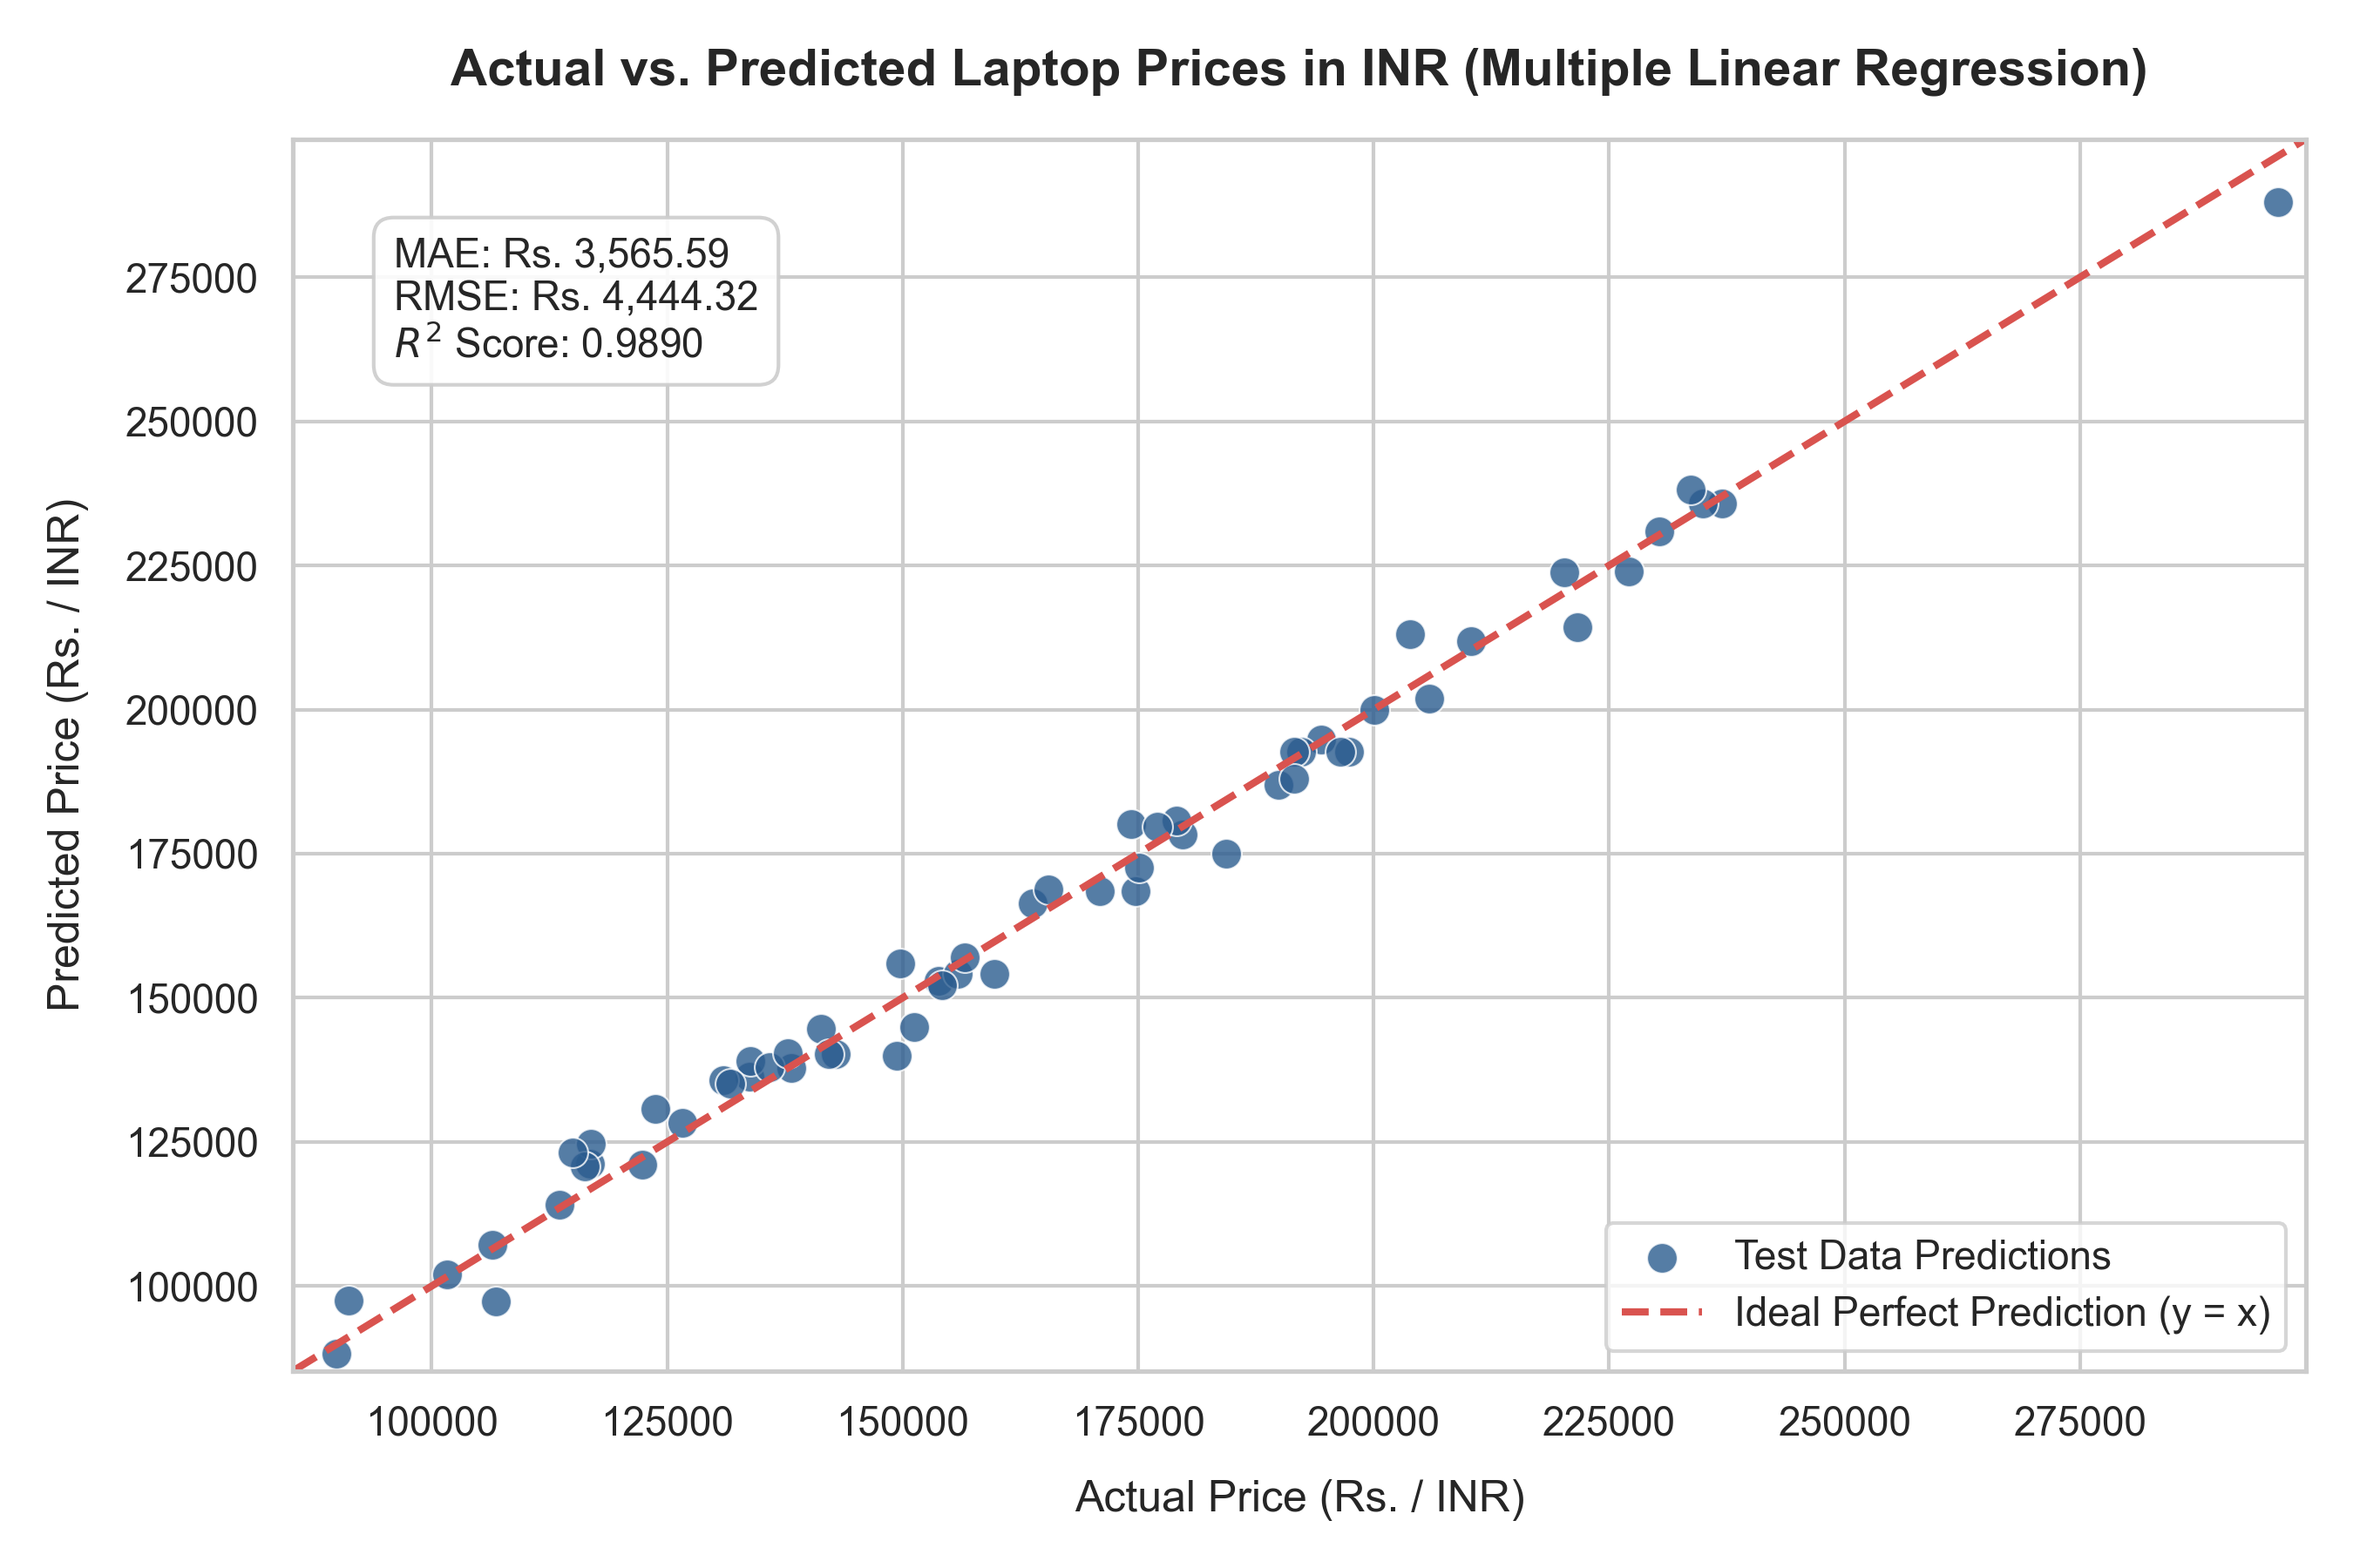
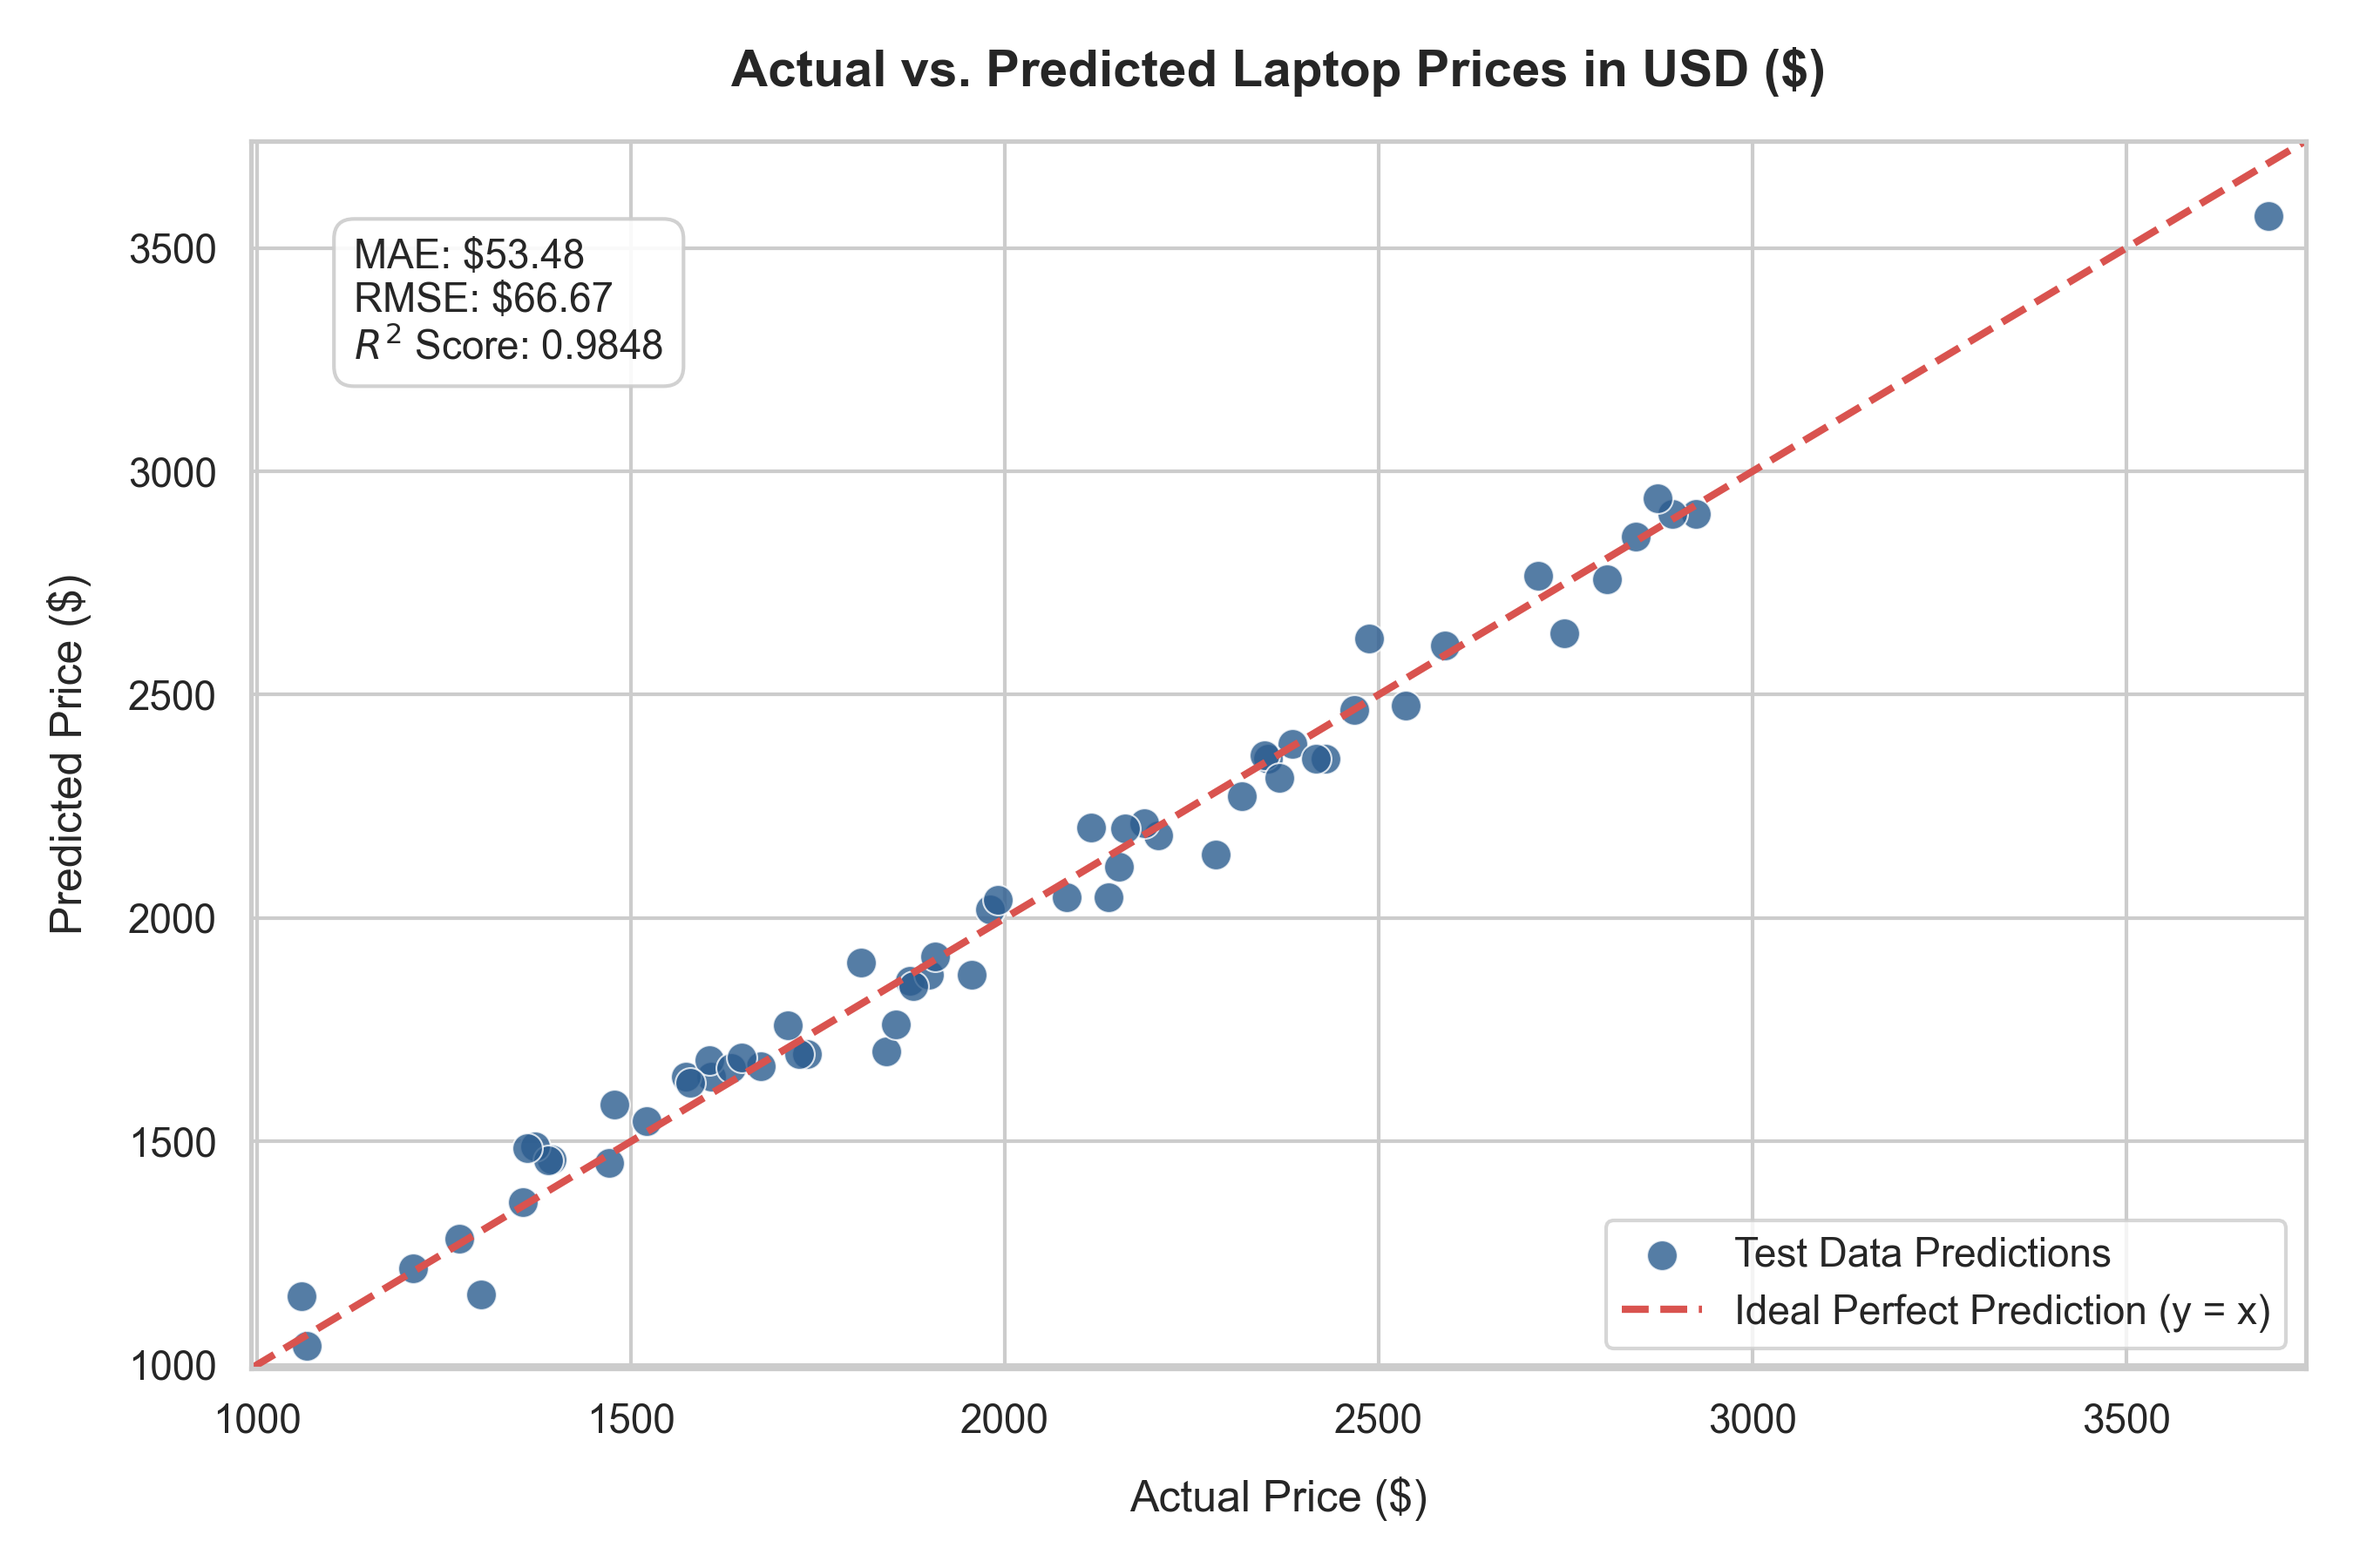
calculated in dollars

diff --git a/README.md b/README.md
@@ -1,7 +1,7 @@
 # 💻 Laptop Price Prediction using Multiple Linear Regression
 
 **Course**: Machine Learning / MLOps Lab Assignment  
-**Topic**: Predicting Laptop Prices in Indian Rupees (INR / Rs.) based on Hardware Specifications  
+**Topic**: Predicting Laptop Prices in USD ($) based on Hardware Specifications  
 
 ---
 
@@ -14,7 +14,7 @@ The pipeline includes synthetic data generation, exploratory data analysis (EDA)
 
 ## 🎯 Target & Features
 
-- **Target Variable ($y$)**: `Price` — Continuous numerical value in Indian Rupees (INR / Rs.)
+- **Target Variable ($y$)**: `Price` — Continuous numerical value in US Dollars ($)
 - **Feature Matrix ($X$)**:
   1. `RAM_GB`: Installed System RAM capacity (in GB)
   2. `Storage_SSD_GB`: SSD Storage capacity (in GB)
@@ -28,8 +28,9 @@ The pipeline includes synthetic data generation, exploratory data analysis (EDA)
 ```text
 .
 ├── laptop_price_prediction.ipynb  # Main Jupyter Notebook containing complete ML code
-├── laptop_prices.csv              # Synthetic dataset (300 records)
+├── laptop_prices.csv              # Dataset in USD (300 records)
 ├── actual_vs_predicted.png        # High-resolution scatter plot visualization
+├── .gitignore                     # Git configuration ignoring cache & CSV files
 └── README.md                      # Project documentation
 ```
 
@@ -78,21 +79,21 @@ pip install numpy pandas scikit-learn matplotlib seaborn
 
 ---
 
-## 📊 Sample Model Performance & Results
+## 📊 Sample Model Performance & Results (USD)
 
 ### 1. Regression Equation:
-$$\text{Price (Rs.)} = 8671.25 + (2979.38 \times \text{RAM}) + (54.61 \times \text{SSD}) + (3575.19 \times \text{CPU\_Cores}) + (2950.53 \times \text{Screen\_Size})$$
+$$\text{Price (\$)} = 55.07 + (37.69 \times \text{RAM\_GB}) + (0.69 \times \text{Storage\_SSD\_GB}) + (43.13 \times \text{CPU\_Cores}) + (36.76 \times \text{Screen\_Size\_Inches})$$
 
 ### 2. Feature Weight Interpretation:
-- **CPU Cores ($\approx \text{Rs. } 3,575.19$)**: Each additional core adds approx. $\text{Rs. } 3,575$ to price.
-- **RAM ($\approx \text{Rs. } 2,979.38$)**: Each additional GB of RAM adds approx. $\text{Rs. } 2,979$.
-- **Screen Size ($\approx \text{Rs. } 2,950.53$)**: Each additional inch adds approx. $\text{Rs. } 2,950$.
-- **Storage SSD ($\approx \text{Rs. } 54.61$)**: Each GB of SSD storage adds approx. $\text{Rs. } 54.61$.
+- **CPU Cores ($\approx \$43.13$)**: Each additional CPU core increases laptop price by approximately $\$43.13$.
+- **RAM ($\approx \$37.69$)**: Adding 1 GB of RAM increases price by $\$37.69$.
+- **Screen Size ($\approx \$36.76$)**: An extra inch in screen size adds about $\$36.76$.
+- **Storage SSD ($\approx \$0.69$)**: Every extra GB of SSD storage adds about $\$0.69$.
 
 ### 3. Evaluation Metrics on Test Set:
-- **MAE**: $\text{Rs. } 3,565.59$
-- **RMSE**: $\text{Rs. } 4,444.32$
-- **$R^2$ Score**: **0.9890** ($98.90\%$ variance explained)
+- **MAE**: $\$53.48$
+- **RMSE**: $\$66.67$
+- **$R^2$ Score**: **0.9848** ($98.48\%$ variance explained)
 
 ---
 
